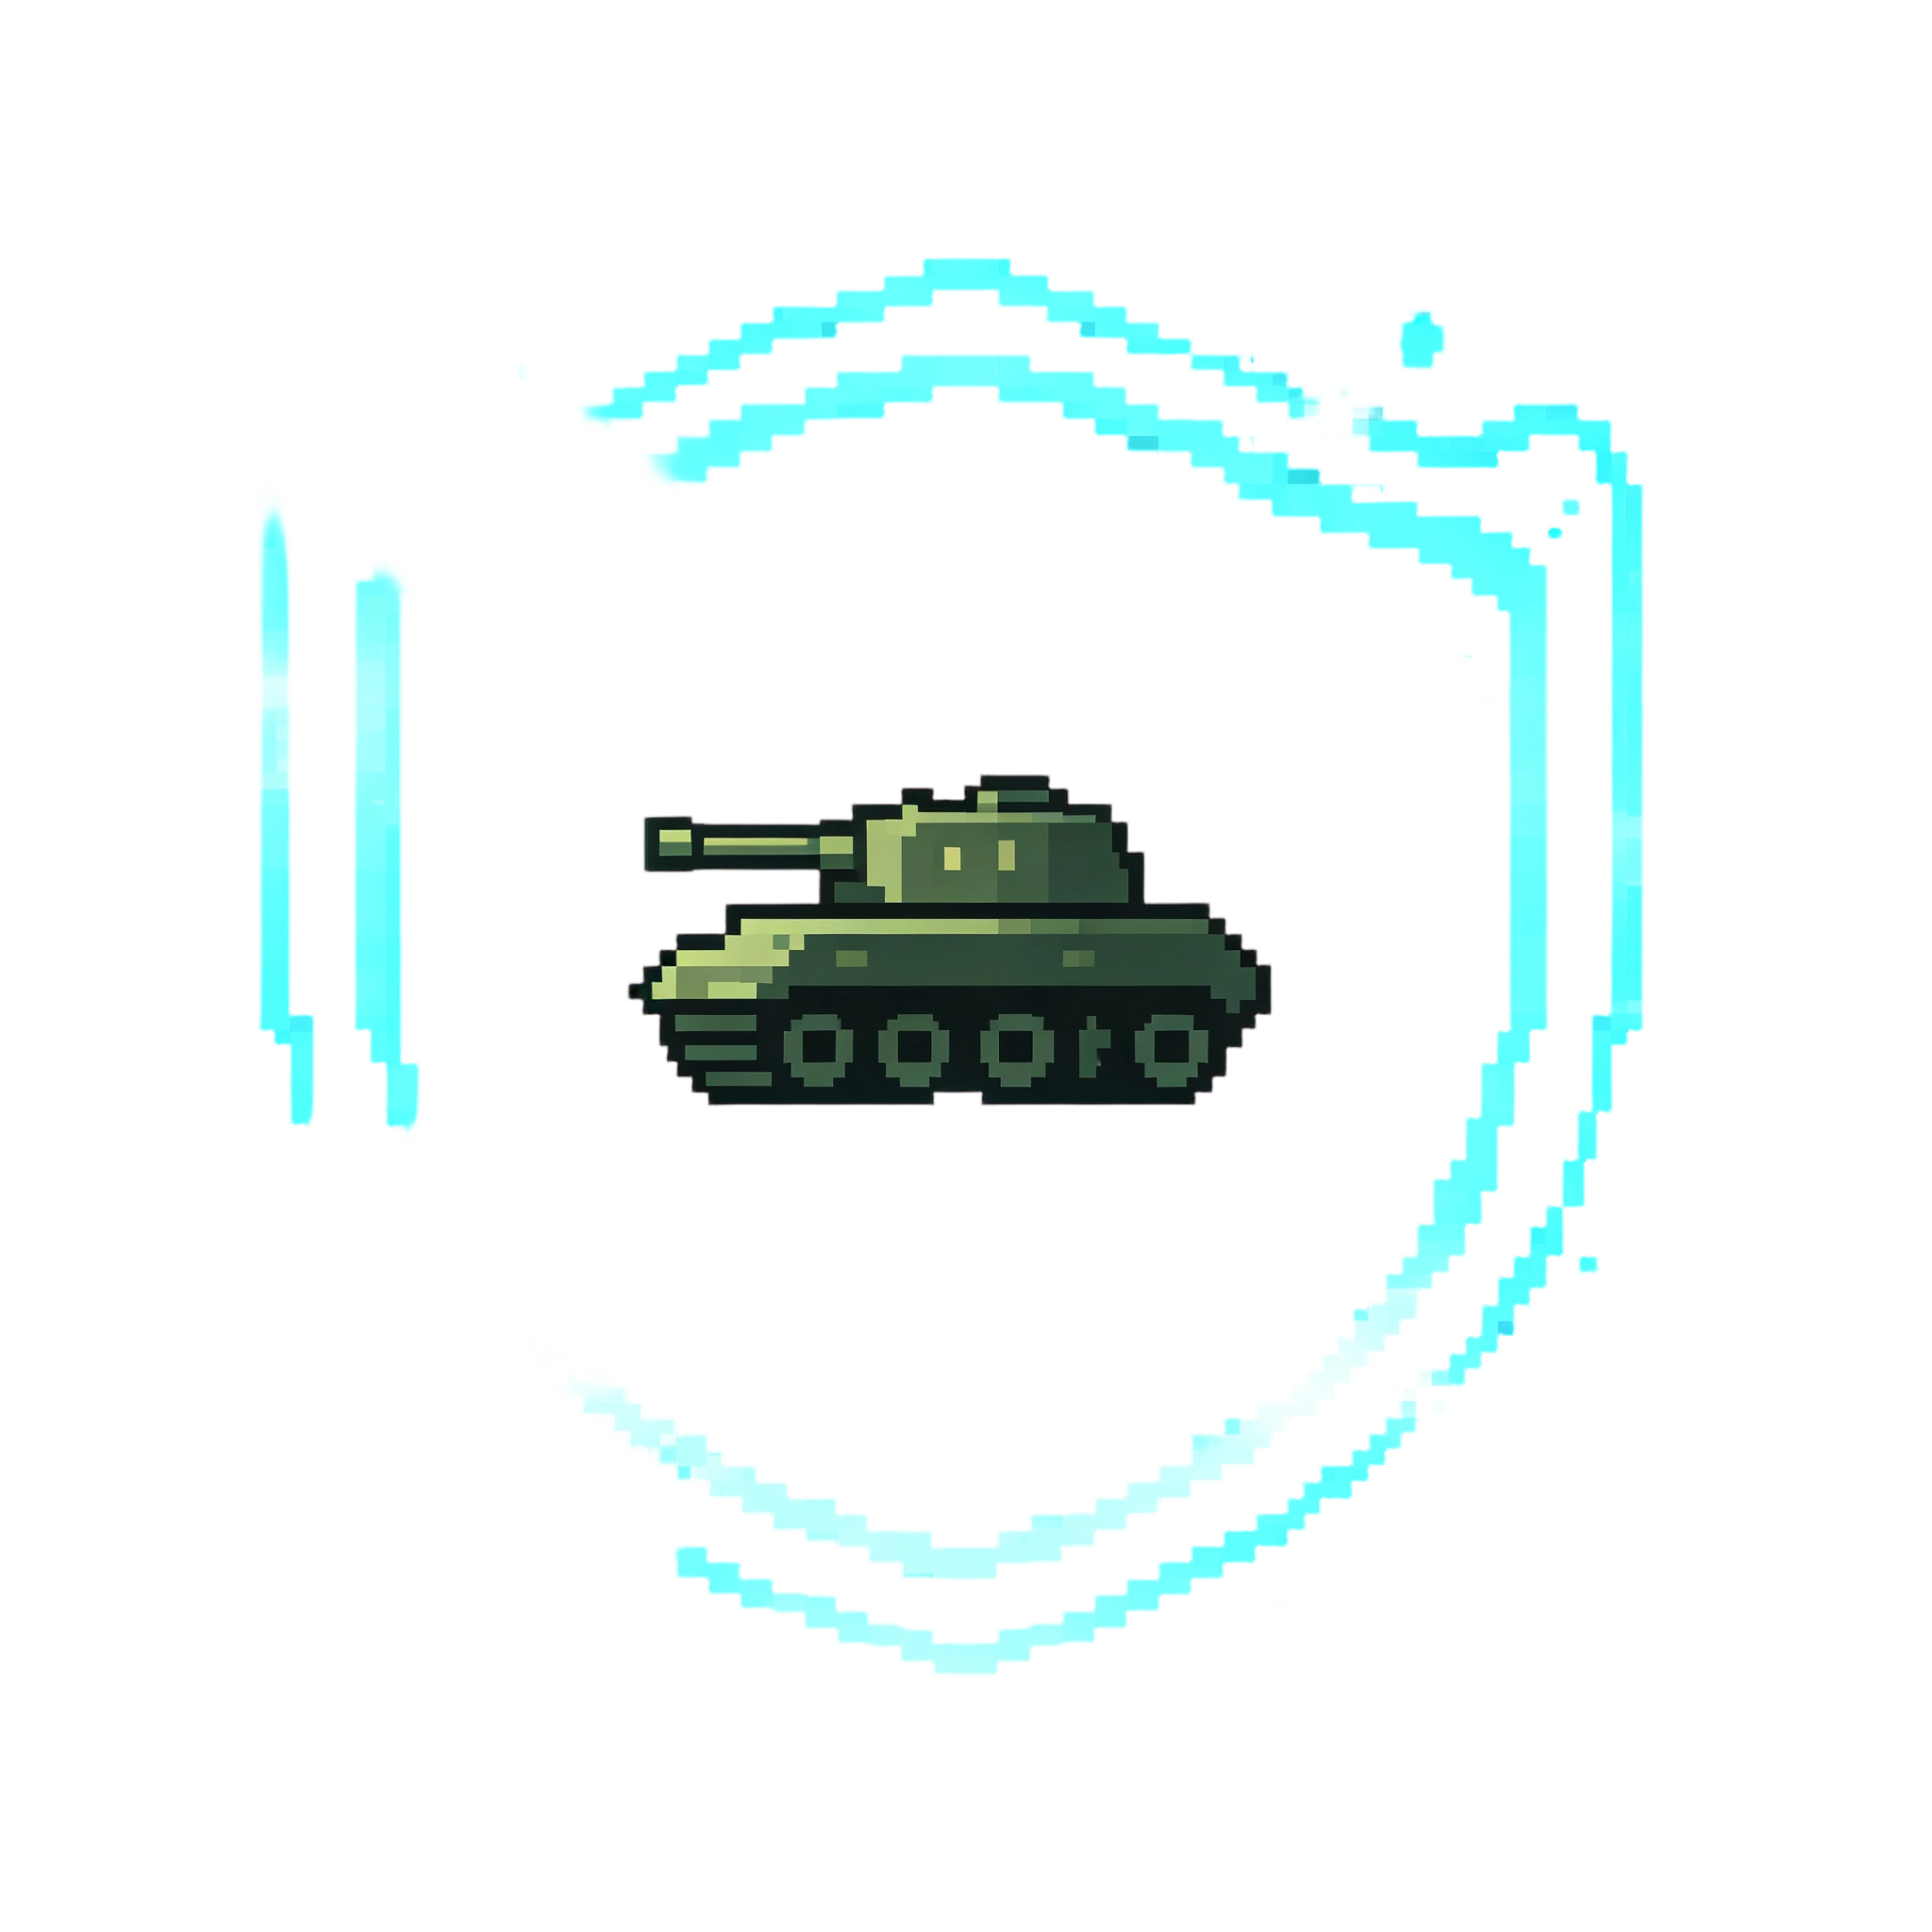
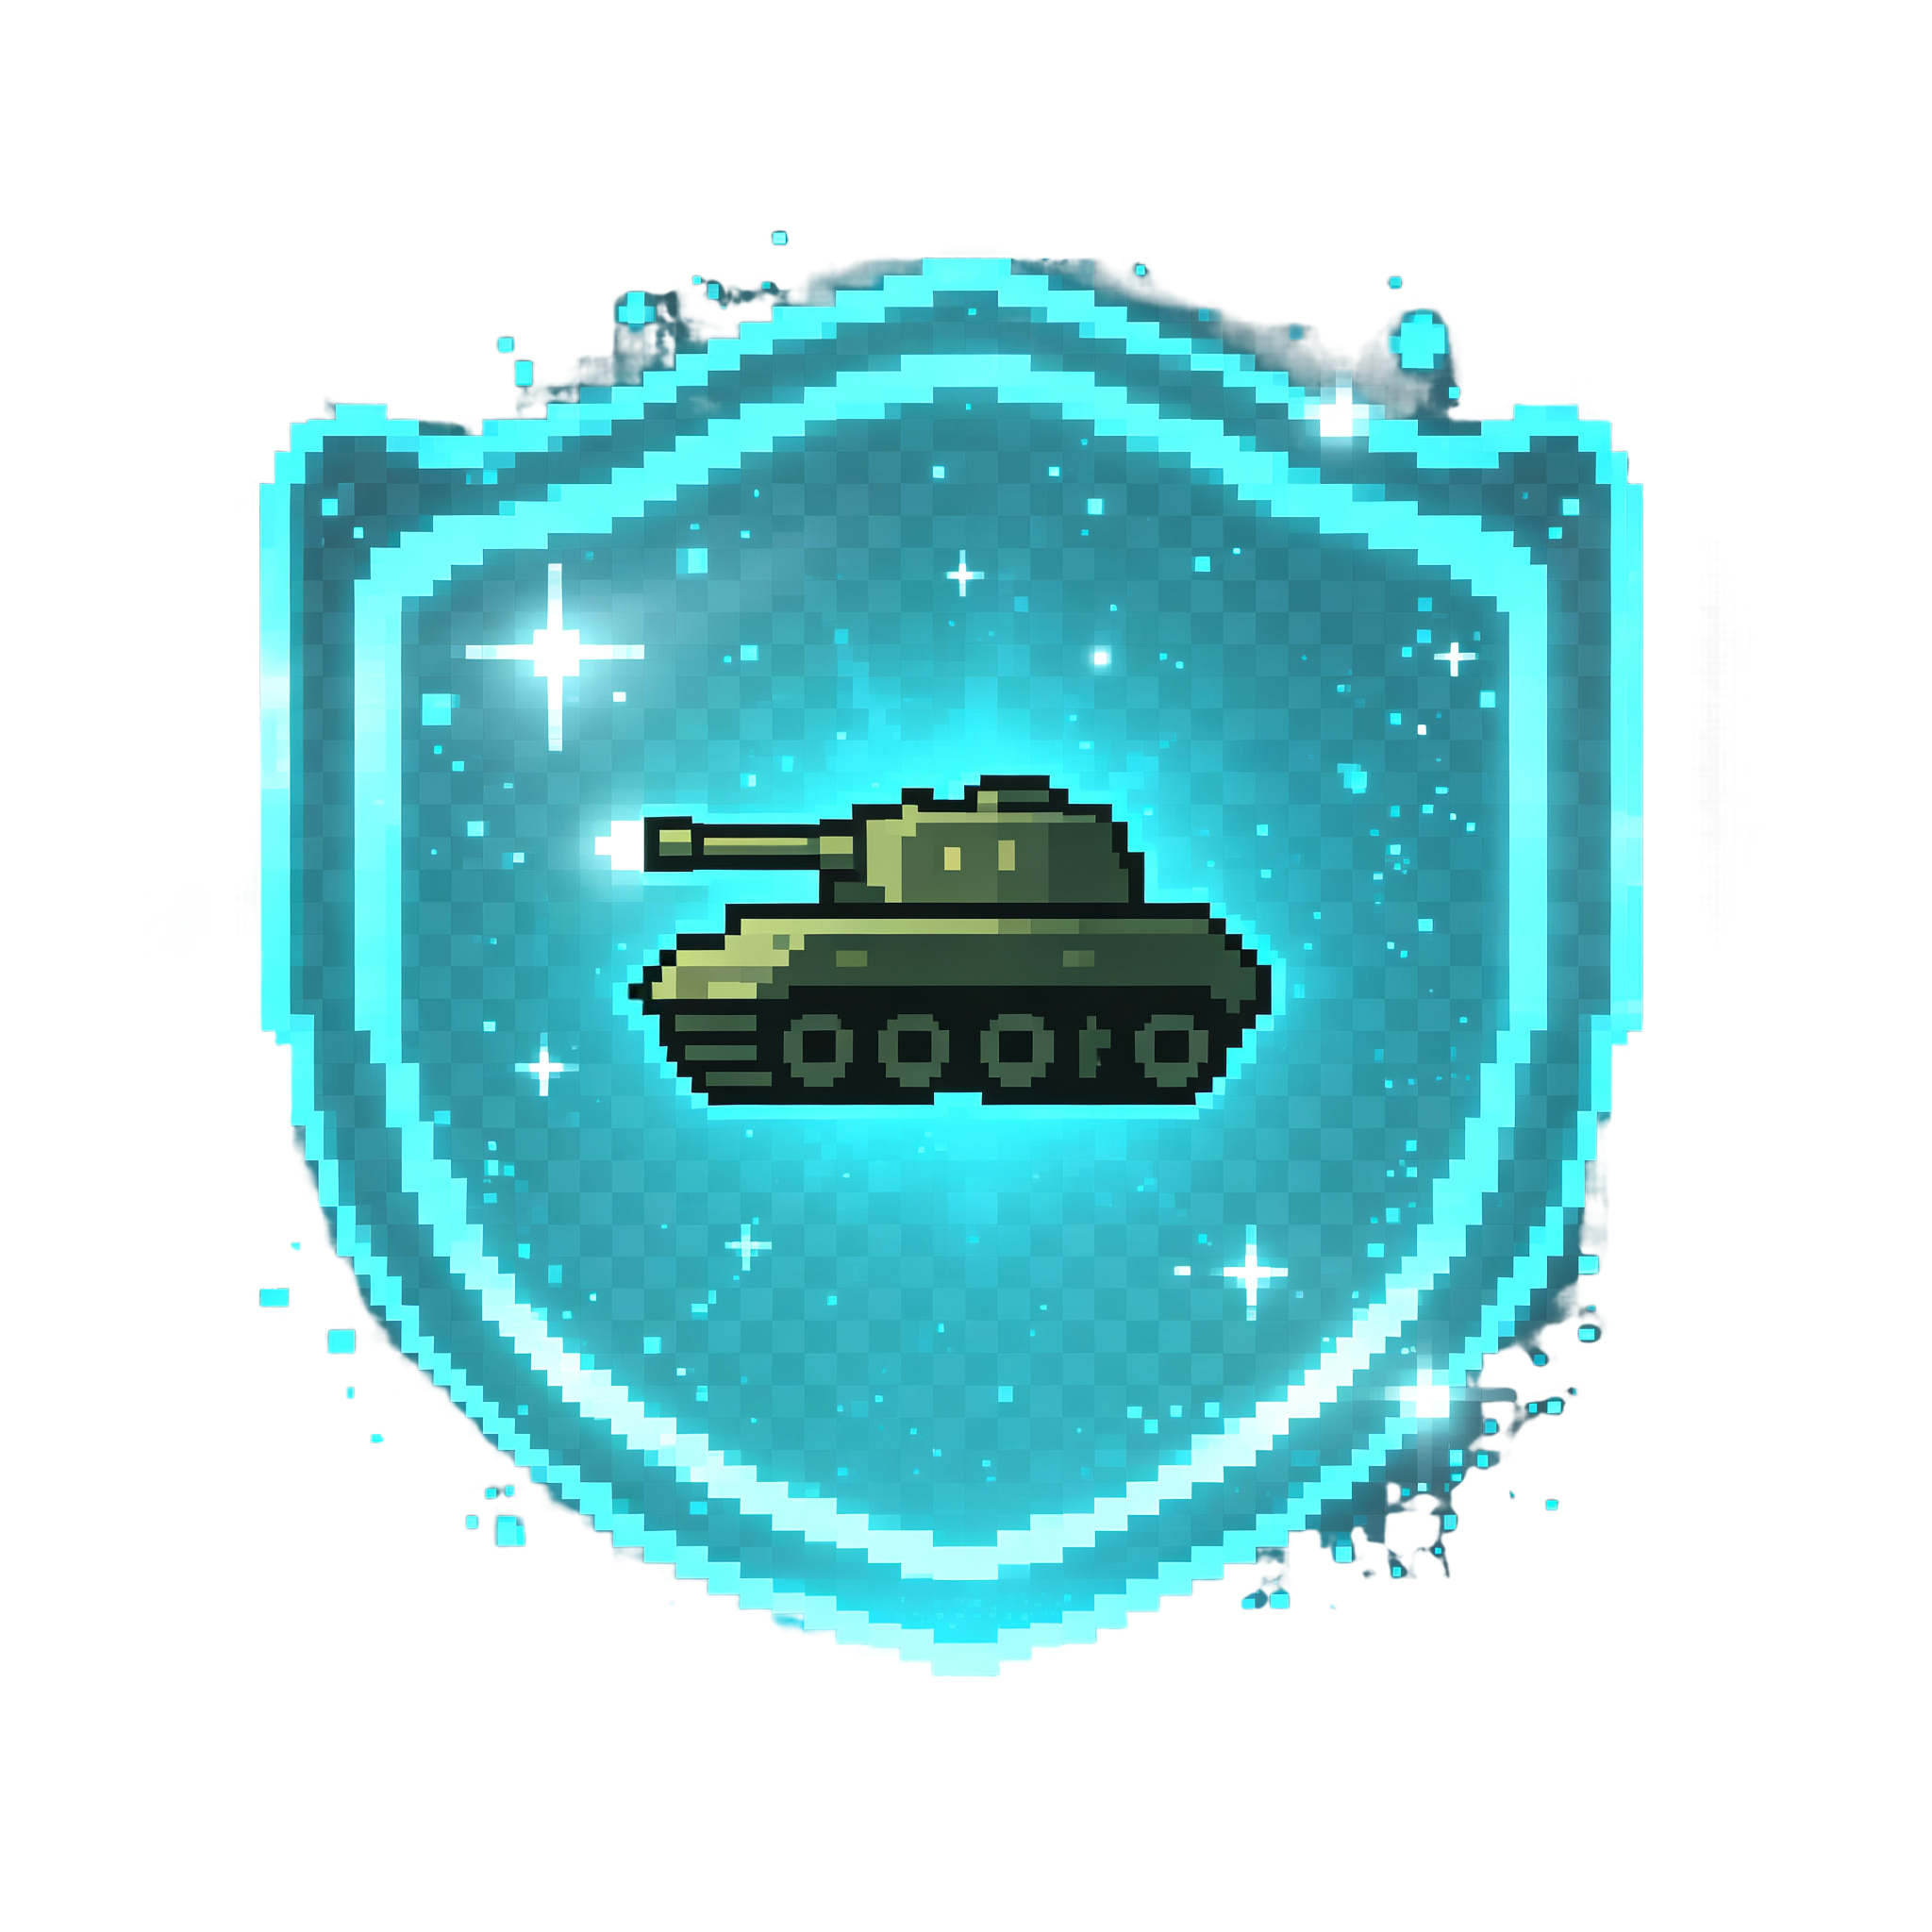
新增 6 张正式对战地图（resource/map-now-data，40px 网格）并更新地图坐标系统文档

diff --git a/All.md b/All.md
@@ -111,7 +111,7 @@ Swing 的绘图基于 **AWT 的绘制管线**，核心是 `JPanel.paintComponent
 | JDK 版本 | JDK 8 及以上 |
 | 开发工具 | IntelliJ IDEA / Eclipse |
 | 依赖库 | `commons-collections-4.x`（提供 `MultiMap` 等工具类）、`gson-2.10.1`（JSON 序列化，存档系统） |
-| 资源文件 | `resource/image/`（关卡预览图 PNG），`resource/data/`（地图数据 `.map`） |
+| 资源文件 | `resource/image/`（图片资源 PNG），`resource/map-now-data/`（正式对战地图 `.map`，6 张，40px 网格）；`resource/map-data/` 为早期 20px 网格样例，不再使用 |
 
 ### 2.6 需求拆解与功能规划
 
@@ -679,14 +679,38 @@ public class MapData {
 }
 ```
 
-**`.map` 文件格式规范**：
+**`.map` 文件格式规范**（正式地图位于 `resource/map-now-data/1.map` ~ `6.map`）：
 
 ```
-BRICK=340,40;340,60;340,80;340,100;...
-IRON=360,160;380,160;720,300;...
+# 井号开头为注释行，解析时跳过
+BRICK=310,150;350,150;390,150;...
+IRON=430,350;910,350;...
 ```
 
-每行以 `BRICK=` 或 `IRON=` 开头，后跟分号分隔的坐标对 `x,y`。坐标表示墙壁块的像素位置。
+每行以 `BRICK=` 或 `IRON=` 开头，后跟分号分隔的坐标对 `x,y`，坐标为墙壁块左上角像素位置。
+
+**坐标系统（与 pic.md 5.1 对齐）**：
+
+| 项目 | 值 |
+|------|-----|
+| 地图区域 | 1080×680，居中于 1380×820 窗口，左上角偏移 (150, 70) |
+| 网格 | 40×40 px，共 27 列 × 17 行 |
+| 边界铁墙 | 最外圈一层（x=150 与 x=1190 两列、y=70 与 y=710 两行），代码自动生成，.map 文件不写 |
+| 内部可用网格 | 25 列 × 15 行：`x = 190 + 列×40`（列 0~24），`y = 110 + 行×40`（行 0~14） |
+| 出生点 | P1 = (191, 391) 左侧中路，P2 = (1151, 391) 右侧中路（坦克 38×38 居中于 40×40 格）；所有地图保证两出生点所在中路格为空地 |
+
+**六张正式地图特色**（均保证不破坏任何墙也存在 P1→P2 通路）：
+
+| 地图 | 名称 | 特色 | 砖墙/铁墙数 |
+|------|------|------|------------|
+| 1 | 开阔平原 | 简单开阔，掩体稀疏，适合新手直接交火 | 26 / 4 |
+| 2 | 中门对狙 | 中路整行通透，出生即可对狙；上下副路可绕后 | 68 / 4 |
+| 3 | 迷宫回廊 | 纷繁复杂，通道狭窄拐弯极多，近身遭遇战 | 144 / 0 |
+| 4 | 长枪直道 | 横向长直道为主，拐弯极少，考验直线走位与换弹节奏（180° 旋转对称） | 55 / 14 |
+| 5 | 十字要冲 | 十字大道贯通全图，四角房间可蹲守，中心必争 | 92 / 8 |
+| 6 | 回字堡垒 | 外砖环+内铁堡双层回字，铁堡仅上下两处砖门可击破进入，攻守博弈 | 52 / 28 |
+
+除地图 4 为 180° 旋转对称外，其余均为左右镜像对称，保证双方公平。
 
 ### 4.10 TankData（坦克数据模板）
 
@@ -1618,7 +1642,7 @@ java -cp "out:lib/commons-collections-4.4.jar:lib/gson-2.10.1.jar:resource/" mai
 | 测试项 | 验证内容 | 预期结果 |
 |--------|----------|----------|
 | 程序启动 | `Main.main()` 能否正常启动窗体 | 显示登录界面，无异常报错 |
-| 资源加载 | 10 张地图和所有图片能否正确加载 | `ElementLoad.init()` 无异常，地图渲染正确 |
+| 资源加载 | 6 张地图和所有图片能否正确加载 | `ElementLoad.init()` 无异常，地图渲染正确 |
 | 坦克移动 | WASD 键能否操控 P1 前后移动与旋转 | 坦克沿朝向移动，旋转角度正确 |
 | 墙壁碰撞 | 坦克移向墙壁是否被阻挡 | 坦克停在墙壁前，不发生穿透 |
 | 子弹发射 | 空格键发射子弹，R 键换弹 | 子弹沿朝向飞行，弹匣递减，换弹后恢复 |

diff --git a/action.md b/action.md
@@ -349,10 +349,12 @@ new GsonBuilder().setPrettyPrinting().create()
 
 ### 7.1 地图数据解析（MapData.parse）
 
-`.map` 文件格式：
+正式地图数据位于 `resource/map-now-data/1.map` ~ `6.map`（旧 `resource/map-data/` 为 20px 网格样例，不再使用）。`.map` 文件格式：
+
 ```
-BRICK=340,40;340,60;340,80;...
-IRON=360,160;380,160;...
+# 井号开头为注释行（每张地图文件头部注明名称、特色、坐标系、出生点）
+BRICK=310,150;350,150;390,150;...
+IRON=430,350;910,350;...
 ```
 
 **解析逻辑（必须健壮）：**
@@ -363,7 +365,24 @@ IRON=360,160;380,160;...
 5. 捕获 `NumberFormatException` → 跳过该坐标对
 6. 解析结果存入 `List<Point>`
 
-**边界墙自动生成：** 地图四周自动放置 Iron 墙壁（即使 .map 未定义），防止坦克出界。四个边的坐标范围由窗口大小计算：水平 0 到 1380/40=34 格，垂直 0 到 820/40=20 格（需减去 UI 区域）。
+**坐标系统：** 地图区域 1080×680 居中于窗口，左上角偏移 (150, 70)，网格 40×40（27 列 × 17 行）。.map 中的坐标为墙壁块左上角像素位置，内部可用网格 25 列 × 15 行：`x = 190 + 列×40`（190~1150），`y = 110 + 行×40`（110~670）。
+
+**边界墙自动生成：** 地图区最外圈一层 Iron 墙壁由代码自动放置（.map 文件不写），防止坦克出界：上边 y=70、下边 y=710 两整行，左边 x=150、右边 x=1190 两整列。
+
+**出生点：** P1 = (191, 391)（左侧中路），P2 = (1151, 391)（右侧中路），坦克 38×38 居中于格内。六张地图均保证出生点为空地，且不破坏任何墙也存在 P1→P2 通路。
+
+**六张地图设计特色：**
+
+| 地图 | 名称 | 特色 |
+|------|------|------|
+| 1 | 开阔平原 | 简单开阔，掩体稀疏，新手直接交火 |
+| 2 | 中门对狙 | 中路整行通透，出生即可对狙；上下副路绕后 |
+| 3 | 迷宫回廊 | 复杂迷宫，通道狭窄拐弯极多，近身遭遇战 |
+| 4 | 长枪直道 | 横向长直道，拐弯极少（180° 旋转对称） |
+| 5 | 十字要冲 | 十字大道贯通，四角房间蹲守，中心必争 |
+| 6 | 回字堡垒 | 双层回字，内铁堡仅上下砖门可击破进入 |
+
+除地图 4 为旋转对称外均为左右镜像对称，保证双方公平。
 
 ### 7.2 地图墙壁元素创建
 

diff --git a/CLAUDE.md b/CLAUDE.md
@@ -78,4 +78,4 @@ All visible entities extend `SuperElement` (abstract: `show()`, `move()`, `updat
 | Control | `thread` | `GameThread`, AI controllers (`thread/ai/`) |
 | Model | `model.vo`, `model.load`, `model.manager` | `SuperElement`, `Players`, `Bullet`, `ElementManager`, `ElementFactory`, `SaveManager` |
 
-Map files: `resource/map-data/*.map` (1.map–10.map) — semicolon-separated `BRICK=x,y` / `IRON=x,y` entries.
+Map files: `resource/map-now-data/*.map`（正式地图 1.map–6.map，40px 网格，含 `#` 注释行）— semicolon-separated `BRICK=x,y` / `IRON=x,y` entries. Coordinate system: 地图区 1080×680 居中（偏移 150,70），详见 `action.md` 7.1。`resource/map-data/` 为旧 20px 网格样例，不再使用。